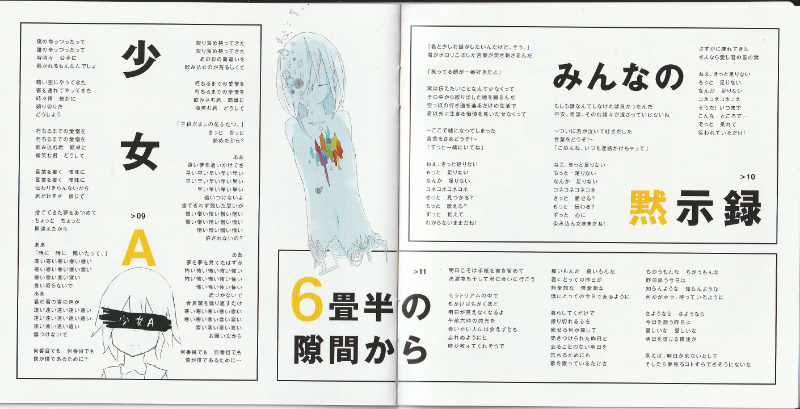
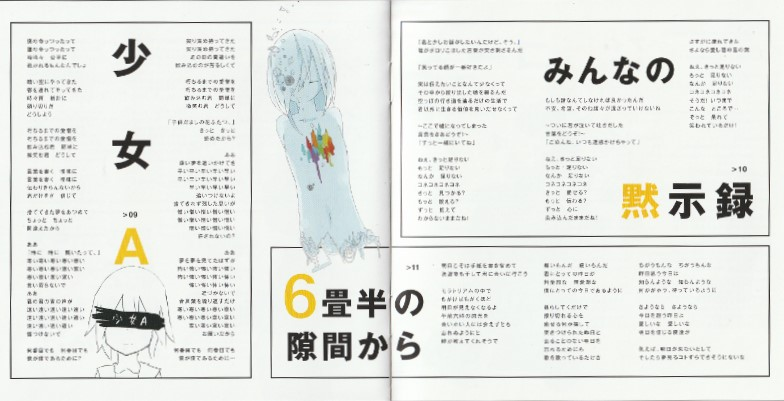
fixed some scans

Changed region(s): [[0.0, 0.0, 1.0, 1.0], [0.7959, 0.8678, 0.949, 0.8978], [0.0306, 0.0299, 0.0612, 0.0599]]

diff --git a/fansite/index.html b/fansite/index.html
@@ -95,7 +95,7 @@
 			<p><b>last updated on: 02.nov.24</b> / <a href="mailto:&#x6d;&#x65;&#x6f;&#x77;&commat;&#x64;&#x6f;&#x71;&#x6d;&#x65;&#x61;&#x74;&period;&#x63;&#x6f;&#x6d;">contact me</a></p>
 
 			<p><b>credit:</b> body bg is by <a title="pixiv link" href="https://www.pixiv.net/en/artworks/18997270" target="_blank">siinamota</a></p>
-			<p><b>disclaimer:</b> all content on this site belong to siinamota and their respective creators which has been credited accordingly! no copyright infringement intended. this is a non-profit fansite.</p>
+			<p><b>disclaimer:</b> all content on this site belongs to siinamota and their respective creators which has been credited accordingly! no copyright infringement intended. this is a non-profit fansite.</p>
 		</footer>
 	</main>
 </body>
